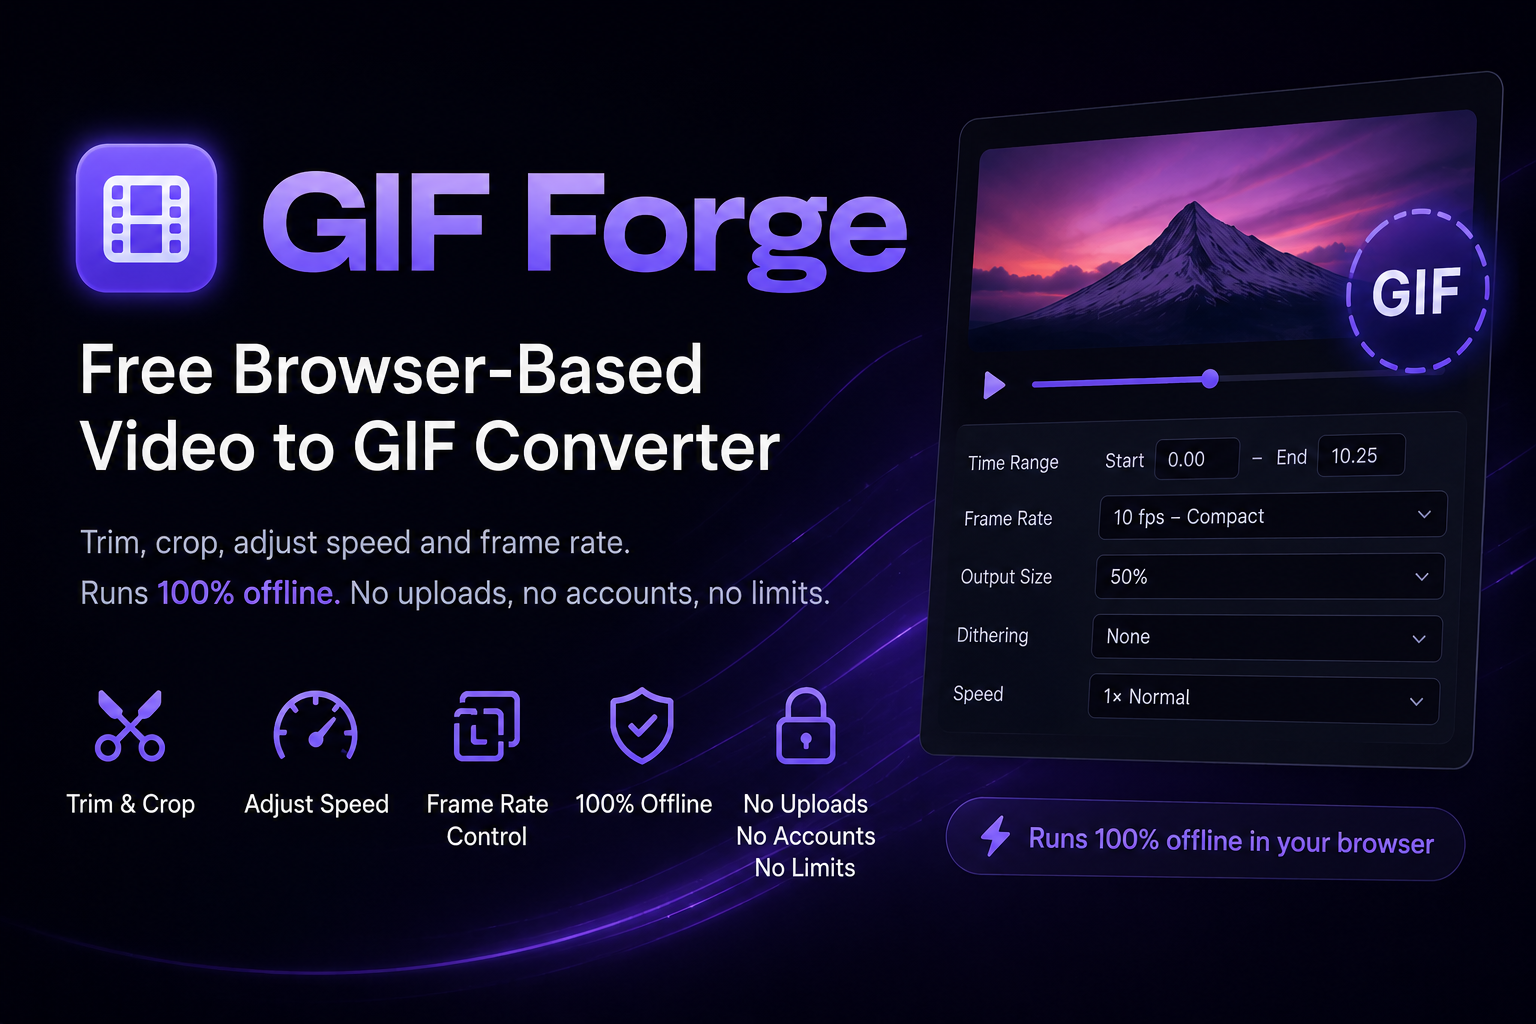
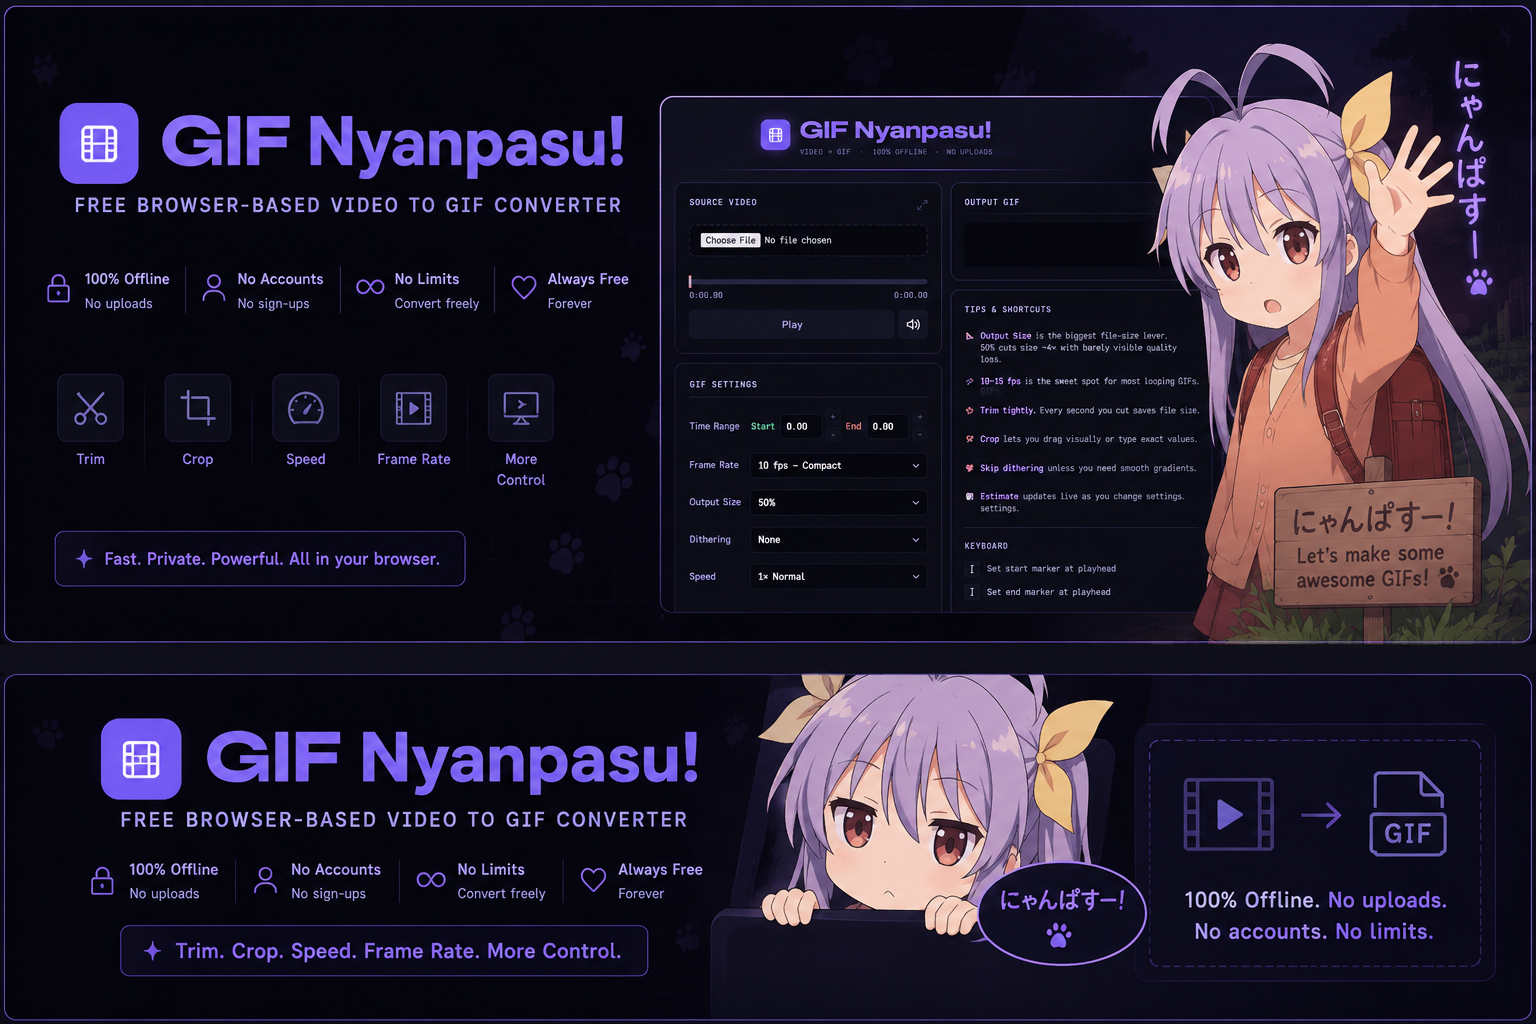
fix: change download filename convention chore: update og image

diff --git a/main.js b/main.js
@@ -1334,9 +1334,30 @@ class GifConverter {
     /* ── Download ── */
     _downloadGif() {
         if (!this.currentBlob) return;
+
+        const video = this.el.videoPreview;
+        if (!video.src || !video.videoWidth) return;
+
+        let srcW, srcH;
+        if (this.crop && this.crop.enabled) {
+            const px = this.crop.pixelRegion;   // already in pixels
+            srcW = px.w;
+            srcH = px.h;
+        } else {
+            srcW = video.videoWidth;
+            srcH = video.videoHeight;
+        }
+
+        const sizePercent = parseFloat(this.el.sizeSelect.value);
+        const outW = Math.max(2, Math.round(srcW * sizePercent));
+        const outH = Math.max(2, Math.round(srcH * sizePercent));
+
+        const fps = parseInt(this.el.fpsSelect.value);
+        const speed = parseFloat(this.el.speedSelect.value);
+
         const a = document.createElement('a');
         a.href = URL.createObjectURL(this.currentBlob);
-        a.download = `${this.originalName || 'gif-nyanpasu-output'}.gif`;
+        a.download = `${this.originalName || 'gif-nyanpasu-output'}--${sizePercent * 100}%-(${outW}x${outH})-${fps}fps-${speed}x.gif`;
         a.click();
     }
 